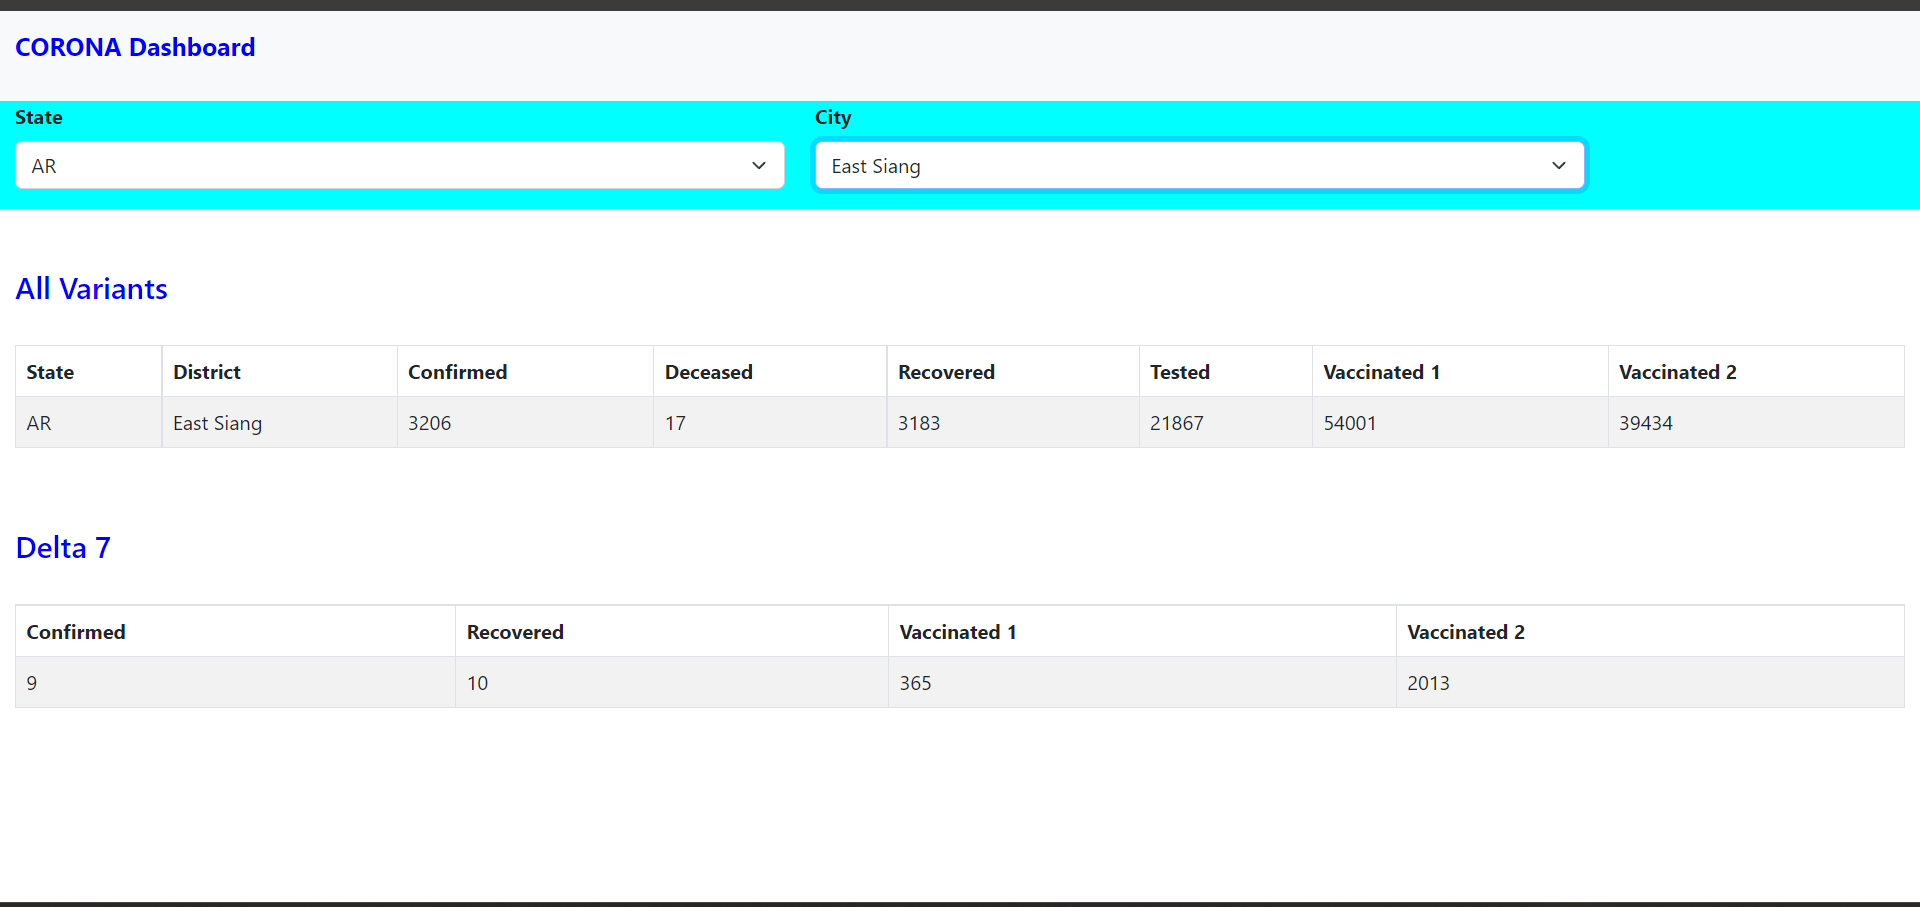
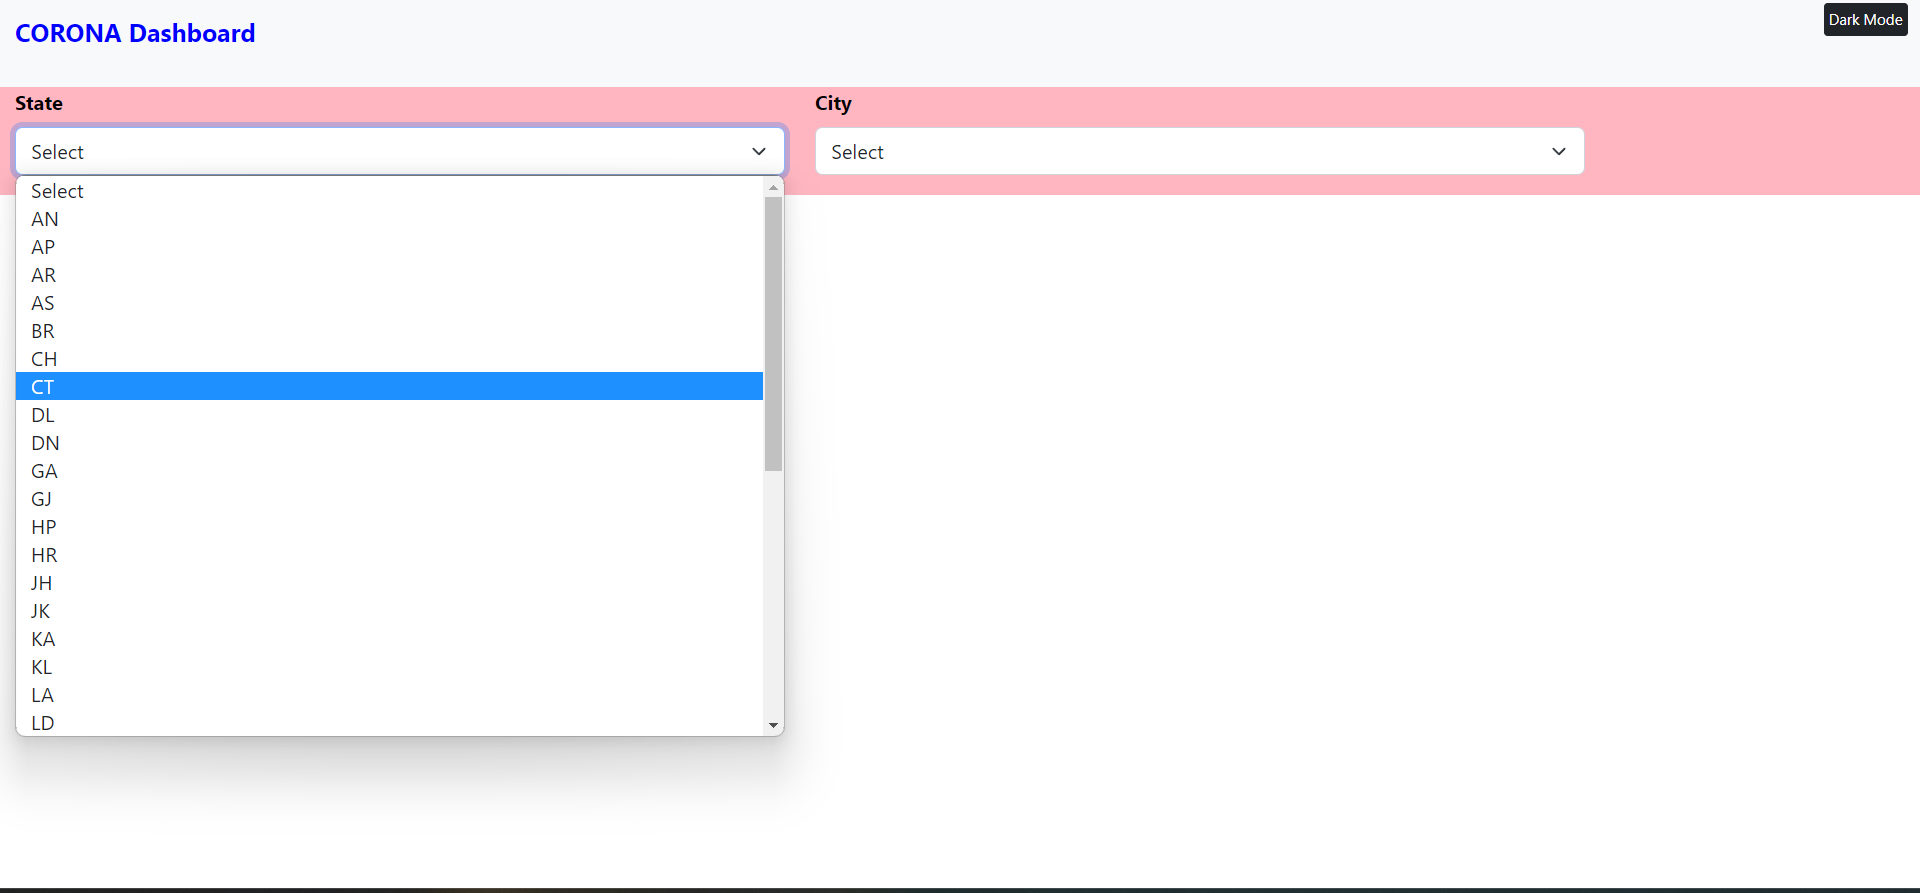
updated readme file and screenshots

diff --git a/README.md b/README.md
@@ -1,5 +1,7 @@
 # Covid-19-dashboard
-Covid-19 dashboard created using React + TS.
+Covid-19 dashboard created using ReactJS + Typescript.
+
+***UI Components used : React-Bootstrap***
 
 ### Api Used : https://data.covid19india.org/v4/min/data.min.json
 
@@ -8,7 +10,7 @@ Covid-19 dashboard created using React + TS.
 2. Run `npm install`
 3. Run `npm start`
 4. Open `http://localhost:3000/` in your browser
-5. Check Covid 19 data for your state
+5. Check Covid 19 data for your state and district
 
 ## Screenshots
 ![screenshot1](doc/Screenshot1.png)
@@ -17,3 +19,12 @@ Covid-19 dashboard created using React + TS.
 ![screenshot4](doc/Screenshot4.png)
 ![screenshot5](doc/Screenshot5.png)
 ![screenshot6](doc/Screenshot6.png)
+![screenshot7](doc/Screenshot7.png)
+![screenshot8](doc/Screenshot8.png)
+
+## Features
+1. State wise data
+2. District wise data
+3. Search for a state
+4. Search for a district
+5. Dark mode
